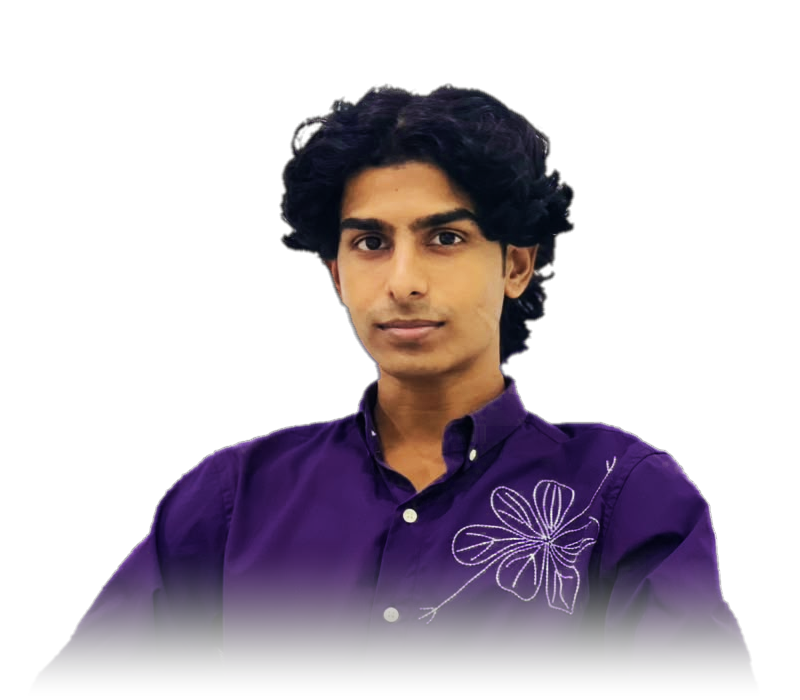
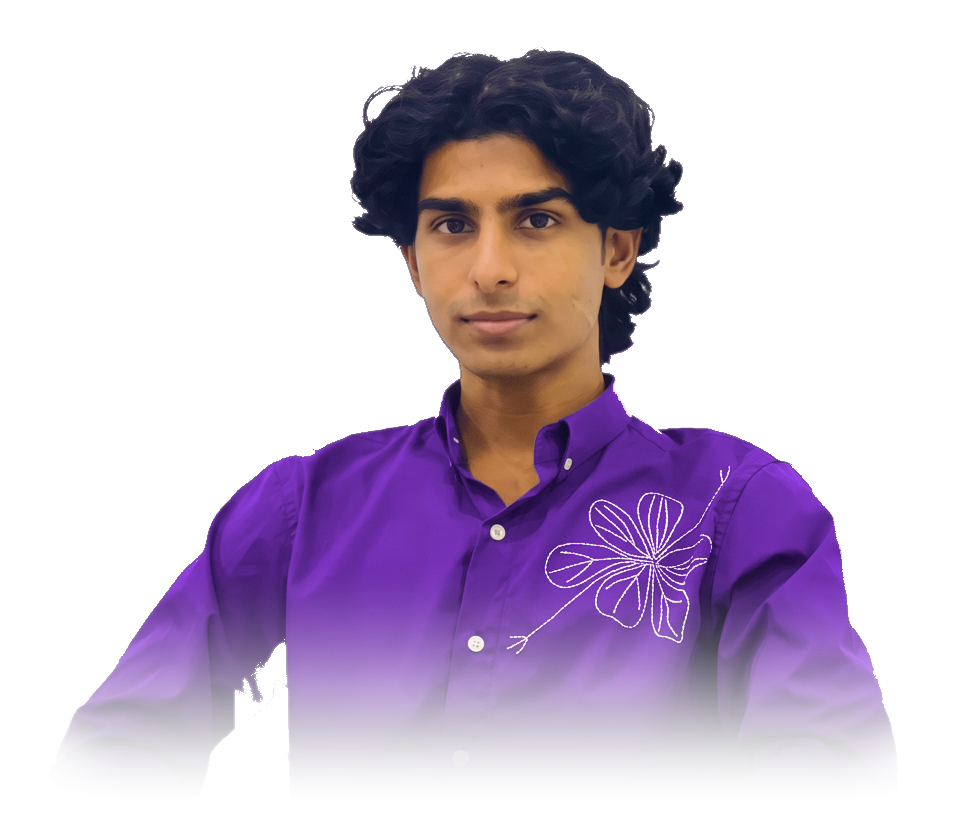
refactor: update hero styling and assets
- Simplify hero header layout and typography
- Update hero portrait image references with version cache-busting
- Add C2PA metadata to hero portrait asset

diff --git a/src/sections/Hero.jsx b/src/sections/Hero.jsx
@@ -81,14 +81,14 @@ export default function Hero() {
       </svg>
 
       <div className="container-px relative z-20 mx-auto flex max-w-7xl flex-col justify-between">
-        {/* TOP EDITORIAL MICRO-HEADER BAR (Matches top strip of reference image) */}
-        <div className="flex items-center justify-between border-b border-white/10 pb-3 font-mono text-[10px] tracking-[0.22em] uppercase sm:text-xs">
-          <div className="flex items-center gap-2">
+        {/* TOP EDITORIAL MICRO-HEADER BAR (Single clean row on mobile & desktop) */}
+        <div className="flex items-center justify-between gap-2 border-b border-white/10 pb-3 font-mono text-[9.5px] tracking-[0.16em] uppercase sm:text-xs sm:tracking-[0.22em]">
+          <div className="flex items-center gap-1.5 truncate">
             <span className="font-semibold text-violet-400">
-              FRONTEND DEVELOPER
+              FRONTEND DEV
             </span>
             <span className="text-white/30">/</span>
-            <span className="text-soft-white/80">REACT.JS CREATOR</span>
+            <span className="truncate text-soft-white/80">REACT.JS CREATOR</span>
           </div>
 
           <a
@@ -96,7 +96,7 @@ export default function Hero() {
             target="_blank"
             rel="noopener noreferrer"
             data-cursor="WhatsApp"
-            className="group inline-flex items-center gap-2 text-soft-white/90 transition-colors hover:text-violet-300"
+            className="group inline-flex shrink-0 items-center gap-1.5 text-soft-white/90 transition-colors hover:text-violet-300"
           >
             <span>AVAILABLE FOR FREELANCE</span>
             <span className="text-violet-400 transition-transform duration-300 group-hover:rotate-90">
@@ -116,52 +116,54 @@ export default function Hero() {
               initial={{ opacity: 0, y: 30, scale: 0.96 }}
               animate={{ opacity: 1, y: 0, scale: 1 }}
               transition={{ duration: 0.8, ease: [0.16, 1, 0.3, 1] }}
-              className="font-condensed text-[clamp(5.4rem,19.5vw,18.5rem)] font-extrabold uppercase leading-[0.82] tracking-[-0.03em] text-hero-backdrop"
+              className="font-condensed text-[clamp(5.5rem,21vw,18.5rem)] font-extrabold uppercase leading-[0.82] tracking-[-0.03em] text-hero-backdrop"
             >
               PORTFOLIO
             </motion.div>
           </div>
 
-          {/* CENTER STUDIO PORTRAIT OF ABOOBACKER (Overlapping the giant PORTFOLIO letters in 3D depth) */}
+          {/* CENTER STUDIO PORTRAIT OF ABOOBACKER (Overlapping the giant PORTFOLIO letters with seamless alpha mask, zero square box) */}
           <motion.div
             initial={{ opacity: 0, y: 36, scale: 0.97 }}
             animate={{ opacity: 1, y: 0, scale: 1 }}
             transition={{ duration: 0.85, delay: 0.1, ease: [0.16, 1, 0.3, 1] }}
-            className="pointer-events-none relative z-20 -mt-16 mx-auto flex w-full max-w-[540px] justify-center sm:-mt-28 lg:absolute lg:inset-x-0 lg:bottom-0 lg:top-10 lg:mt-0 lg:max-w-[650px] lg:items-end"
+            className="pointer-events-none relative z-20 -mt-14 mx-auto flex w-full max-w-[500px] justify-center sm:-mt-24 sm:max-w-[560px] lg:absolute lg:inset-x-0 lg:bottom-0 lg:top-8 lg:mt-0 lg:max-w-[660px] lg:items-end"
           >
             {/* Subtle glowing rim halo directly behind head & shoulders */}
             <div
-              className="absolute left-1/2 top-1/2 -z-10 h-[320px] w-[320px] -translate-x-1/2 -translate-y-1/2 rounded-full blur-[80px] sm:h-[420px] sm:w-[420px]"
+              className="absolute left-1/2 top-[44%] -z-10 h-[280px] w-[280px] -translate-x-1/2 -translate-y-1/2 rounded-full blur-[80px] sm:h-[400px] sm:w-[400px]"
               style={{
                 background:
-                  "radial-gradient(circle, rgba(168, 85, 247, 0.42) 0%, rgba(124, 58, 237, 0.15) 60%, transparent 80%)",
+                  "radial-gradient(circle, rgba(168, 85, 247, 0.45) 0%, rgba(124, 58, 237, 0.18) 58%, transparent 80%)",
               }}
               aria-hidden="true"
             />
 
-            <picture className="w-full">
+            <picture
+              className="w-full"
+              style={{
+                WebkitMaskImage:
+                  "radial-gradient(ellipse 92% 90% at 50% 38%, #000 58%, rgba(0,0,0,0.65) 76%, transparent 98%)",
+                maskImage:
+                  "radial-gradient(ellipse 92% 90% at 50% 38%, #000 58%, rgba(0,0,0,0.65) 76%, transparent 98%)",
+              }}
+            >
               <source srcSet={profile.heroPortraitWebp} type="image/webp" />
               <img
                 src={profile.heroPortraitPng}
                 alt="Aboobacker — Frontend Developer & React.js Creator"
-                width="800"
-                height="700"
+                width="960"
+                height="820"
                 fetchPriority="high"
                 decoding="async"
                 referrerPolicy="no-referrer"
-                className="mx-auto block h-auto w-full max-h-[440px] object-contain object-bottom drop-shadow-[0_24px_65px_rgba(0,0,0,0.95)] sm:max-h-[540px] lg:max-h-[610px]"
+                className="mx-auto block h-auto w-full max-h-[420px] object-contain object-bottom sm:max-h-[540px] lg:max-h-[620px]"
               />
             </picture>
-
-            {/* Bottom Blend Vignette so Portrait Merges Seamlessly into #050505 */}
-            <div
-              className="pointer-events-none absolute inset-x-0 bottom-0 h-28 bg-gradient-to-t from-void via-void/80 to-transparent"
-              aria-hidden="true"
-            />
           </motion.div>
 
-          {/* FOREGROUND 12-COLUMN OVERLAY GRID (Left Identity Column + Right Callout & Stats Column) */}
-          <div className="relative z-30 mt-auto grid grid-cols-1 items-end gap-10 pt-4 lg:grid-cols-12 lg:gap-6 lg:pb-6">
+          {/* FOREGROUND 12-COLUMN OVERLAY GRID (Overlaps soft-faded bottom of portrait on mobile & desktop) */}
+          <div className="relative z-30 -mt-10 grid grid-cols-1 items-end gap-10 sm:-mt-14 lg:mt-auto lg:grid-cols-12 lg:gap-6 lg:pb-6">
             {/* LEFT COLUMN: "Hello, I'm ABOOBACKER" + Role + Bio + Freelance CTAs */}
             <motion.div
               initial={{ opacity: 0, x: -28 }}

diff --git a/src/data/profile.js b/src/data/profile.js
@@ -21,8 +21,8 @@ export const profile = {
   portfolioUrl: "https://aboobacker-portfolio.vercel.app",
   resumeUrl: "/resume.pdf",
   aboutImage: "/images/profile.jpg",
-  heroPortraitWebp: "/images/aboobacker_hero_studio.webp",
-  heroPortraitPng: "/images/aboobacker_hero_studio.png",
+  heroPortraitWebp: "/images/aboobacker_hero_studio.webp?v=3",
+  heroPortraitPng: "/images/aboobacker_hero_studio.png?v=3",
   socials: {
     github: "https://github.com/abucodess",
     linkedin: "https://www.linkedin.com/in/abubacker-ai",
